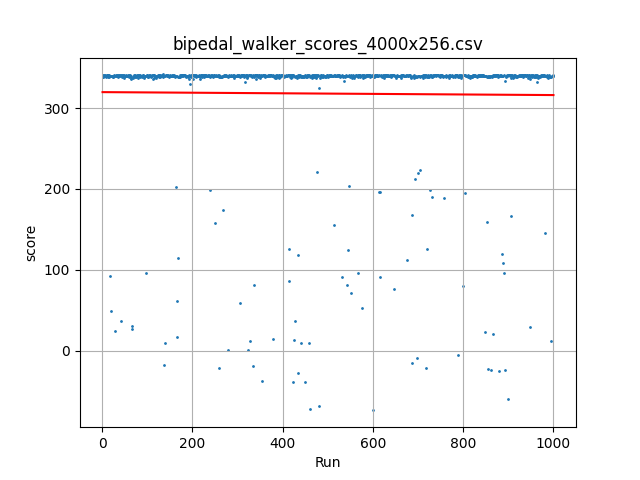
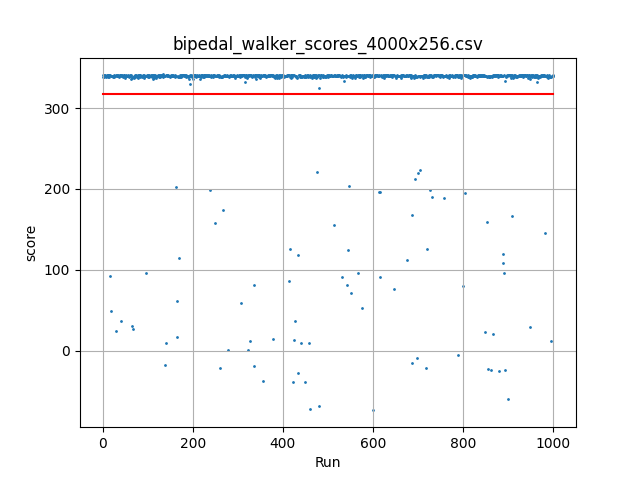
fix data plotting

diff --git a/data/graphs/plot_graphs.py b/data/graphs/plot_graphs.py
@@ -25,8 +25,10 @@ def plot_graphs():
                 plt.clf()
             elif "scores" in file:
                 plt.scatter(df["run"], df["score"], s=1)
-                # plot average line for all runs
-                plt.plot(np.unique(df["run"]), np.poly1d(np.polyfit(df["run"], df["score"], 1))(np.unique(df["run"])), color="red")
+                # get average score for all values in score column
+                avg_score = [df["score"].mean()] * len(df["run"])
+                
+                plt.plot(np.arange(len(avg_score)), avg_score, color="red")
                 plt.title(file)
                 plt.xlabel("Run")
                 plt.ylabel("score")
